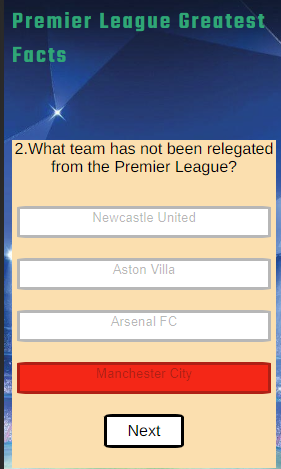
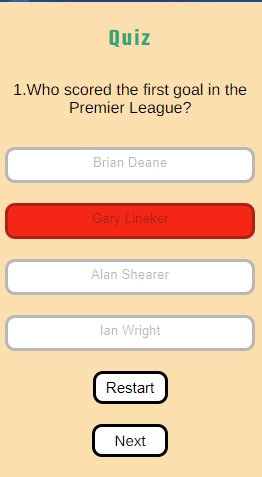
Added additonal wireframes for quiz, adjusted padding restart btn

diff --git a/README.md b/README.md
@@ -129,6 +129,8 @@ Premier League greatest facts is a quiz designed around the best league in the w
 
 #### Favicon Desktop
 
+![Favicon Desktop view](docs/wireframes/favicon-quiz.png)
+
 
 ### Questions 
 
